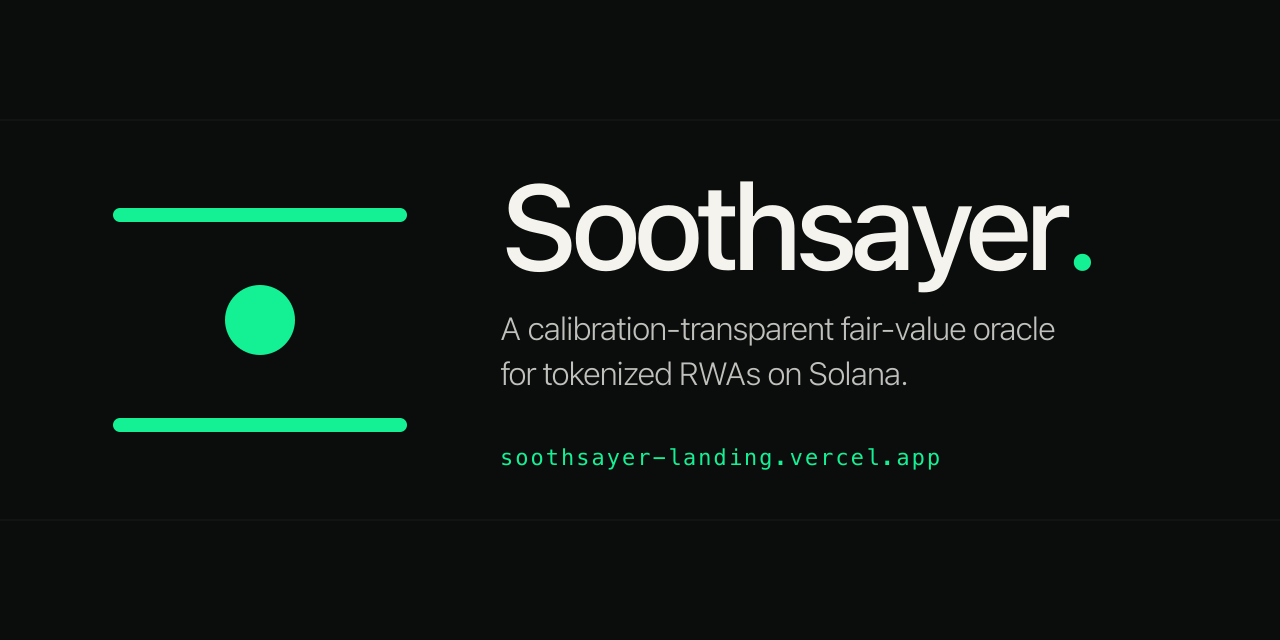
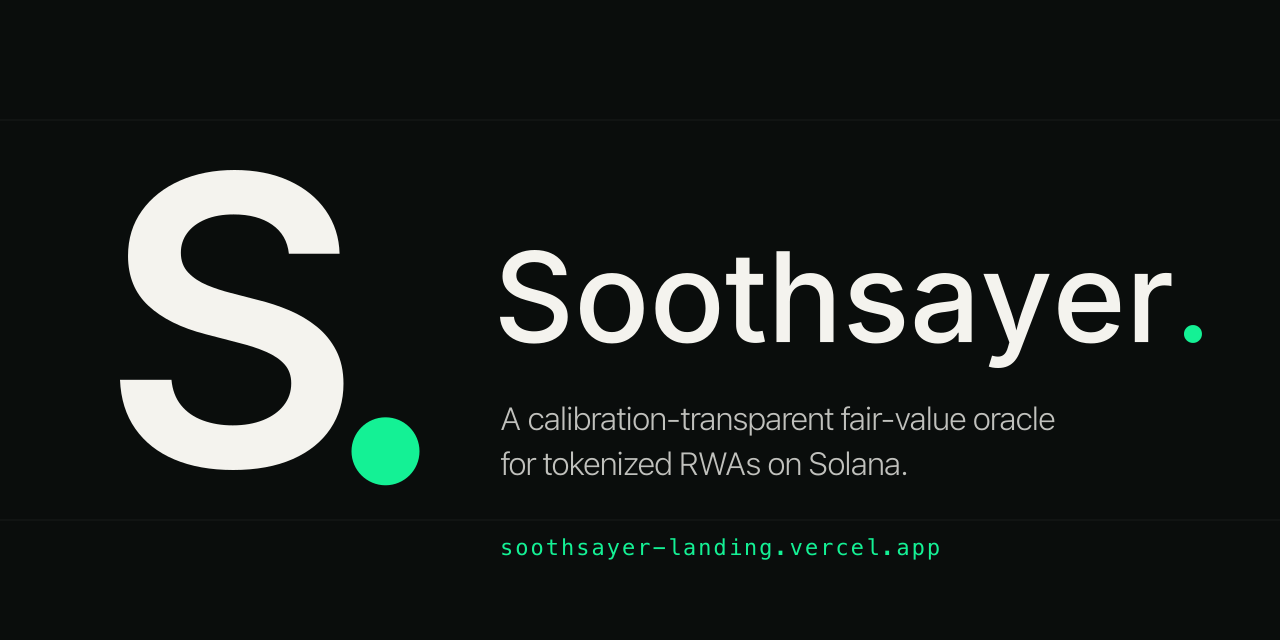
landing: new 'S.' logomark from real Inter outlines
Replace the placeholder point-in-band mark with an Inter SemiBold 'S' glyph outline plus a green point (the fair-value estimate), echoing the wordmark's period. Wired into favicon.svg, og-image.svg, and both inline nav/footer marks. og-image.png re-rendered from real Inter outlines (the wordmark previously fell back to a non-Inter font at render time).

Changed region(s): [[0.375, 0.2812, 0.9375, 0.75], [0.0938, 0.25, 0.3438, 0.7812], [0.375, 0.8438, 0.75, 0.875]]

diff --git a/landing/index.html b/landing/index.html
@@ -715,8 +715,8 @@
   <div class="wrap inner">
     <a class="brand" href="#top">
       <svg class="mark" viewBox="0 0 24 24" aria-hidden="true">
-        <path d="M3 6 L21 6 M3 18 L21 18" stroke="#14F195" stroke-width="2" stroke-linecap="round" fill="none"/>
-        <circle cx="12" cy="12" r="3" fill="#14F195"/>
+        <path transform="translate(2.498 4.560) scale(0.14880)" d="M37.703848662752776 99.99999999999999Q26.418786692759294 99.99999999999999 18.10176125244618 96.47749510763208Q9.784735812133071 92.95499021526417 5.088062622309197 86.2361382909328Q0.3913894324853233 79.51728636660143 0.0 69.92824527071102H17.15590345727332Q17.612524461839527 75.01630789302021 20.352250489236788 78.40834964122635Q23.09197651663405 81.80039138943248 27.592954990215265 83.4637964774951Q32.09393346379648 85.12720156555773 37.573385518590996 85.12720156555773Q43.31376386170907 85.12720156555773 47.71689497716895 83.36594911937377Q52.120026092628834 81.6046966731898 54.59882583170254 78.44096542726678Q57.077625570776256 75.27723418134376 57.077625570776256 71.10241356816698Q57.077625570776256 67.31898238747553 54.89236790606654 64.84018264840182Q52.707110241356816 62.36138290932811 48.760600130463146 60.6327462491846Q44.81409001956947 58.90410958904109 39.53033268101761 57.59947814742335L28.506196999347683 54.729288975864314Q16.307893020221787 51.59817351598173 9.49119373776908 45.27071102413568Q2.674494455316373 38.94324853228962 2.674494455316373 28.63666014350946Q2.674494455316373 20.026092628832345 7.30593607305936 13.568166992824523Q11.937377690802347 7.110241356816701 19.960861056751465 3.5551206784083504Q27.984344422700584 0.0 38.160469667318985 0.0Q48.53228962818004 0.0 56.360078277886494 3.5877364644487884Q64.18786692759295 7.175472928897577 68.59099804305282 13.502935420743633Q72.9941291585127 19.83039791258969 73.18982387475538 27.919112850619697H56.29484670580561Q55.64253098499674 21.656881930854524 50.71754729288976 18.232224396607954Q45.79256360078278 14.807566862361384 37.89954337899543 14.807566862361384Q32.42009132420092 14.807566862361384 28.47358121330724 16.470971950424Q24.527071102413565 18.13437703848662 22.40704500978473 21.004566210045652Q20.2870189171559 23.874755381604686 20.2870189171559 27.59295499021526Q20.2870189171559 31.63731245923026 22.798434442270057 34.246575342465746Q25.309849967384213 36.855838225701234 29.125896934116113 38.421395955642524Q32.94194390084801 39.98695368558381 36.85583822570124 40.96542726679712L45.92302674494455 43.31376386170906Q51.33724722765819 44.61839530332681 56.425309849967384 46.77103718199608Q61.51337247227658 48.92367906066536 65.59034572733202 52.21787345075016Q69.66731898238747 55.51206784083496 72.08088714938029 60.20874103065883Q74.49445531637312 64.9054142204827 74.49445531637312 71.23287671232876Q74.49445531637312 79.77821265492497 70.12393998695367 86.26875407697324Q65.75342465753424 92.75929549902152 57.534246575342465 96.37964774951075Q49.31506849315068 99.99999999999999 37.703848662752776 99.99999999999999Z" fill="#f4f3ee"/>
+        <circle cx="16.462" cy="18.054" r="2.520" fill="#14F195"/>
       </svg>
       <span>Soothsayer<span class="dot">.</span></span>
     </a>
@@ -1134,8 +1134,8 @@
   <div class="wrap inner">
     <div class="brand">
       <svg class="mark" viewBox="0 0 24 24" aria-hidden="true">
-        <path d="M3 6 L21 6 M3 18 L21 18" stroke="#14F195" stroke-width="2" stroke-linecap="round" fill="none"/>
-        <circle cx="12" cy="12" r="3" fill="#14F195"/>
+        <path transform="translate(2.498 4.560) scale(0.14880)" d="M37.703848662752776 99.99999999999999Q26.418786692759294 99.99999999999999 18.10176125244618 96.47749510763208Q9.784735812133071 92.95499021526417 5.088062622309197 86.2361382909328Q0.3913894324853233 79.51728636660143 0.0 69.92824527071102H17.15590345727332Q17.612524461839527 75.01630789302021 20.352250489236788 78.40834964122635Q23.09197651663405 81.80039138943248 27.592954990215265 83.4637964774951Q32.09393346379648 85.12720156555773 37.573385518590996 85.12720156555773Q43.31376386170907 85.12720156555773 47.71689497716895 83.36594911937377Q52.120026092628834 81.6046966731898 54.59882583170254 78.44096542726678Q57.077625570776256 75.27723418134376 57.077625570776256 71.10241356816698Q57.077625570776256 67.31898238747553 54.89236790606654 64.84018264840182Q52.707110241356816 62.36138290932811 48.760600130463146 60.6327462491846Q44.81409001956947 58.90410958904109 39.53033268101761 57.59947814742335L28.506196999347683 54.729288975864314Q16.307893020221787 51.59817351598173 9.49119373776908 45.27071102413568Q2.674494455316373 38.94324853228962 2.674494455316373 28.63666014350946Q2.674494455316373 20.026092628832345 7.30593607305936 13.568166992824523Q11.937377690802347 7.110241356816701 19.960861056751465 3.5551206784083504Q27.984344422700584 0.0 38.160469667318985 0.0Q48.53228962818004 0.0 56.360078277886494 3.5877364644487884Q64.18786692759295 7.175472928897577 68.59099804305282 13.502935420743633Q72.9941291585127 19.83039791258969 73.18982387475538 27.919112850619697H56.29484670580561Q55.64253098499674 21.656881930854524 50.71754729288976 18.232224396607954Q45.79256360078278 14.807566862361384 37.89954337899543 14.807566862361384Q32.42009132420092 14.807566862361384 28.47358121330724 16.470971950424Q24.527071102413565 18.13437703848662 22.40704500978473 21.004566210045652Q20.2870189171559 23.874755381604686 20.2870189171559 27.59295499021526Q20.2870189171559 31.63731245923026 22.798434442270057 34.246575342465746Q25.309849967384213 36.855838225701234 29.125896934116113 38.421395955642524Q32.94194390084801 39.98695368558381 36.85583822570124 40.96542726679712L45.92302674494455 43.31376386170906Q51.33724722765819 44.61839530332681 56.425309849967384 46.77103718199608Q61.51337247227658 48.92367906066536 65.59034572733202 52.21787345075016Q69.66731898238747 55.51206784083496 72.08088714938029 60.20874103065883Q74.49445531637312 64.9054142204827 74.49445531637312 71.23287671232876Q74.49445531637312 79.77821265492497 70.12393998695367 86.26875407697324Q65.75342465753424 92.75929549902152 57.534246575342465 96.37964774951075Q49.31506849315068 99.99999999999999 37.703848662752776 99.99999999999999Z" fill="#f4f3ee"/>
+        <circle cx="16.462" cy="18.054" r="2.520" fill="#14F195"/>
       </svg>
       <span>Soothsayer<span class="dot">.</span></span>
     </div>